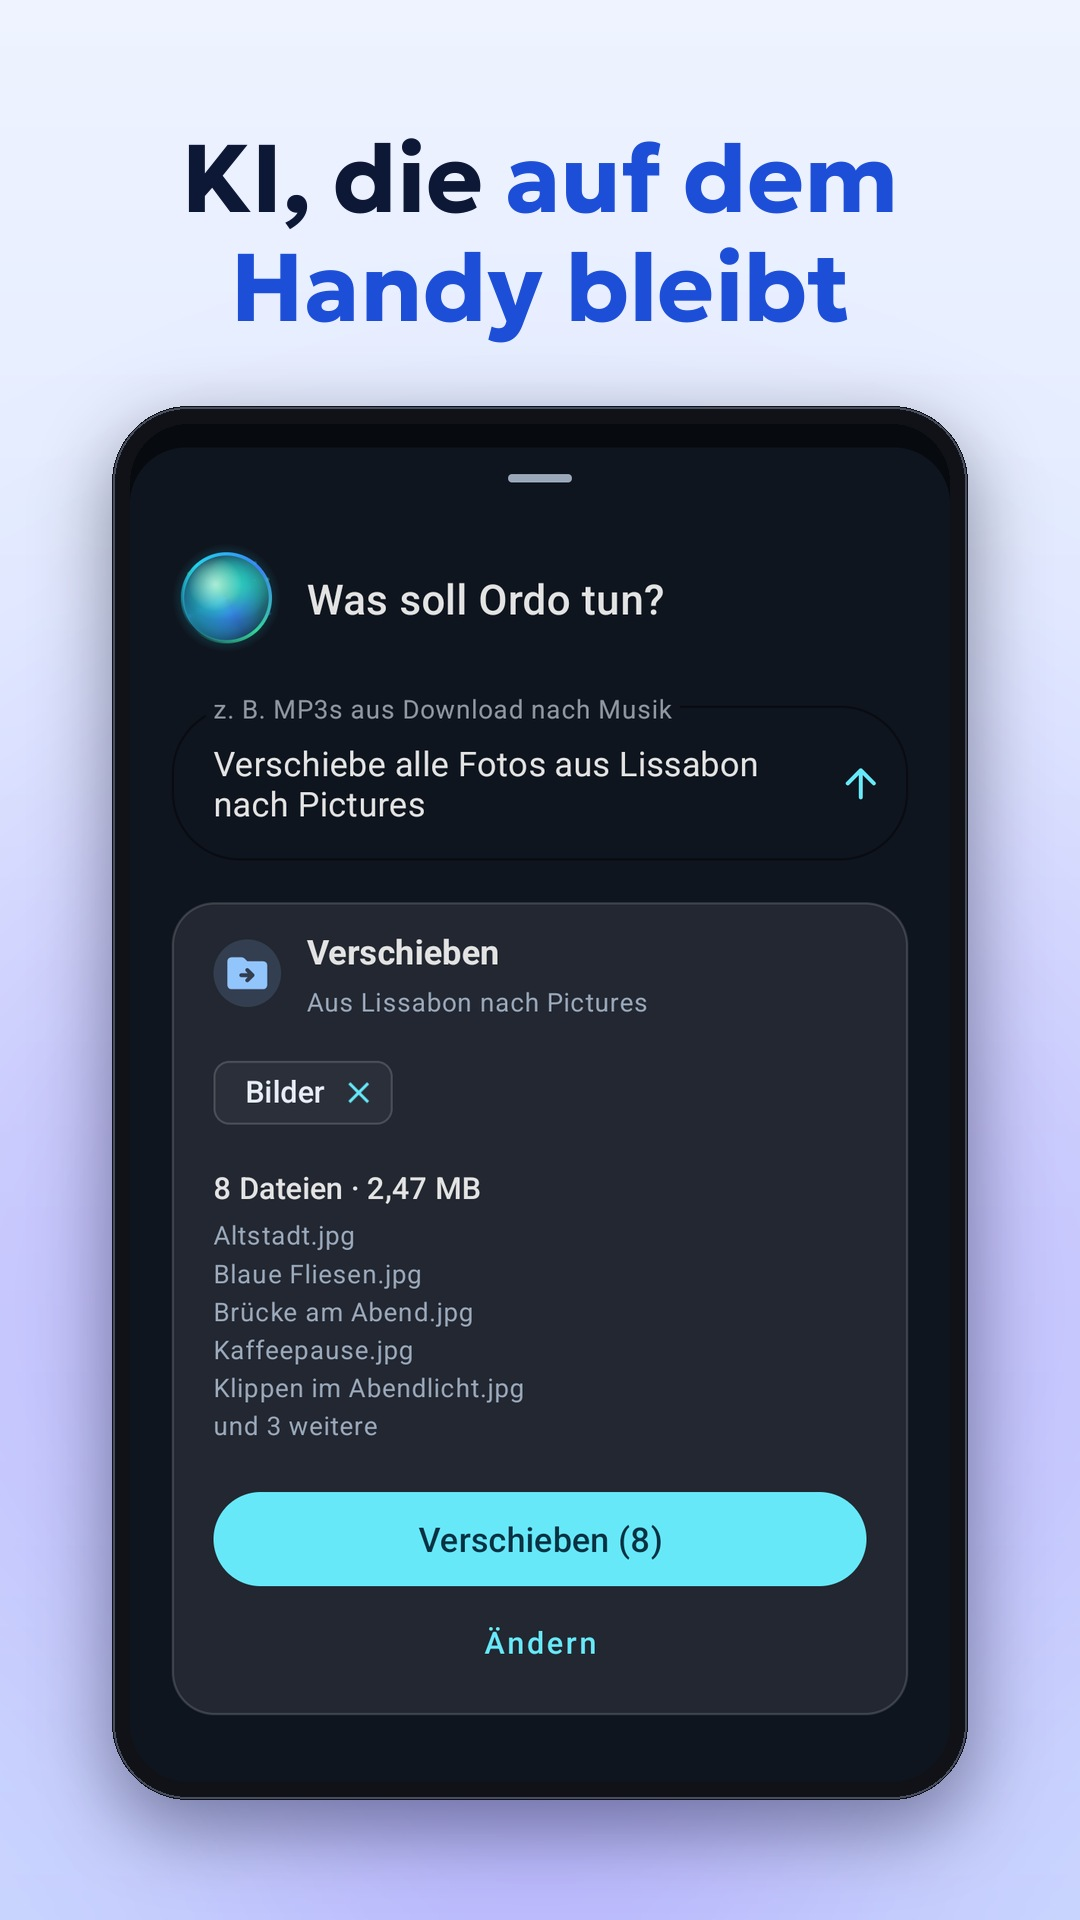
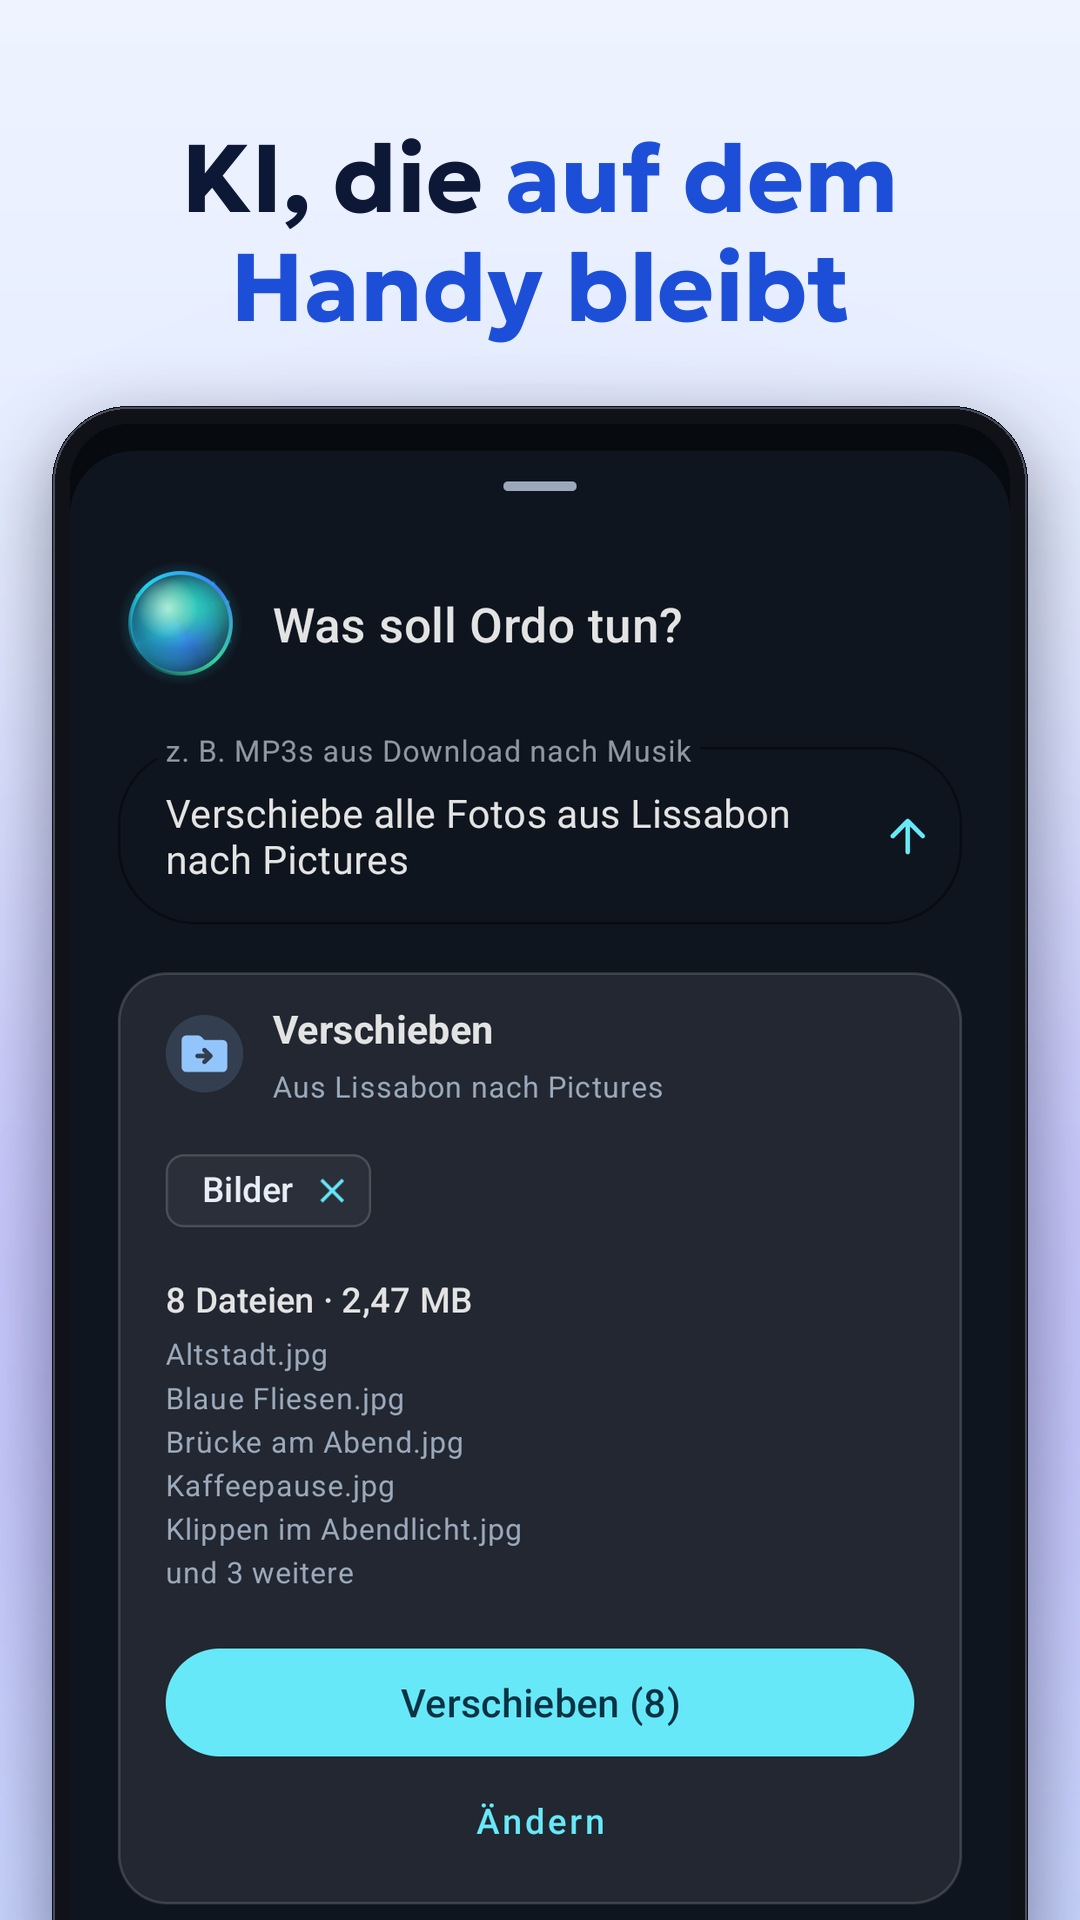
Store images: AI plan and film devices larger
Review round 2: the AI card had empty screen below it, the two film devices stood small in their space.

Claude-Session: https://claude.ai/code/session_01MwZiGHMetnikLtK5FfgZy9

diff --git a/utils/store-images/compose.py b/utils/store-images/compose.py
@@ -142,7 +142,7 @@ def trio(im, top, shots, k):
 def stack(im, top, shots, k):
     """Wide shots one above the other, whole, centred in the space below the headline."""
     W, H = im.size
-    devs = [device(s, round(W * 0.9), k["radius"] * 2 // 3, k["bezel"]) for s in shots]
+    devs = [device(s, round(W * 0.94), k["radius"] * 2 // 3, k["bezel"]) for s in shots]
     gap = 70
     y = top + (H - top - sum(d.height - 2 * p for d, p in devs) - gap * (len(devs) - 1)) // 2
     for dev, pad in devs:
